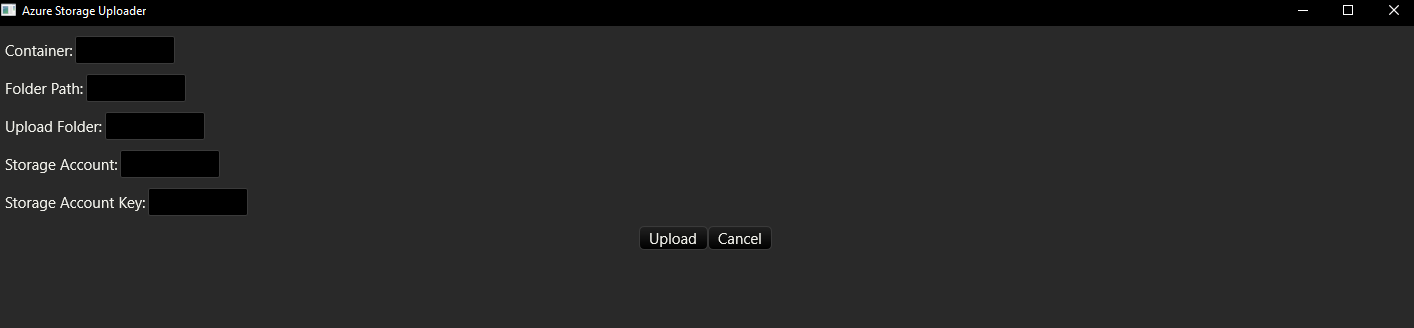
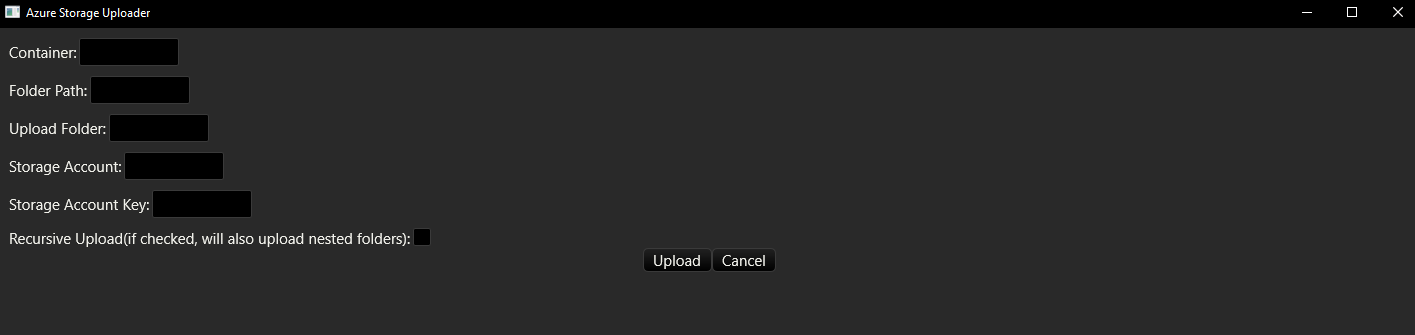
updated read.me

diff --git a/readme.md b/readme.md
@@ -9,11 +9,37 @@
 This is a simple Rust application that allows you to upload files to Azure Storage Blob. It uses the Azure SDK for 
 Rust to upload files to Azure Storage Blob. The application is built with Druid, a Rust-native GUI toolkit.
 
+Files are loaded using rayon, a data parallelism library for Rust.
+
+Then, the files are uploaded to Azure Storage Blob using the Azure SDK for Rust. The application uses the tokio runtime
+to upload files concurrently, which makes the upload process faster.
+
 ### How to use
 
 1. Pass in your Container name, Folder path, Upload Folder, Storage Account name, and Storage Account key in the respective fields.
 2. Click on the "Upload" button to upload the file to Azure Storage Blob.
 
-Container name: The name of the container in Azure Storage Blob where you want to upload the file.
-Folder path: The path of the folder where the file is located. For example, if the file is located in the "C:\Users\username\Documents" folder,
-then the folder path is "C:\Users\username\Documents".
+- Container name: The name of the container in Azure Storage Blob where you want to upload the files.
+
+- Folder path: The path of the folder where the files are located. For example, if the files are located in the "C:\Users\username\Documents" folder,
+then the folder path should be "C:\Users\username\Documents".
+
+``Note: if `Recursive Upload` is checked, nested folders will be uploaded as well``
+
+- Upload Folder: The folder in Azure Storage Blob where you want to upload the files. For example, 
+if you want to upload the files to the "uploads" folder in the container, then set the upload folder to "uploads", it 
+will be created if it doesn't exist.
+
+- Storage Account name: The name of the Azure Storage Account where you want to upload the files.
+
+- Storage Account key: The access key of the Azure Storage Account. You can get the access key from the Azure Portal by 
+navigating to the `Storage Account` -> `Access keys`.
+
+- Recursive Upload: If checked, the application will upload all files in the folder and its subfolders.
+If unchecked, only the files in the selected folder will be uploaded.
+
+
+### Performance
+
+The app takes 1 second to upload some test files to azure, these are image files of different sizes being organized in the following schema:
+26 images in the parent folder, 26 images in a subfolder, and 7 image in another subfolder, totaling 59 images and 60MB of data.
